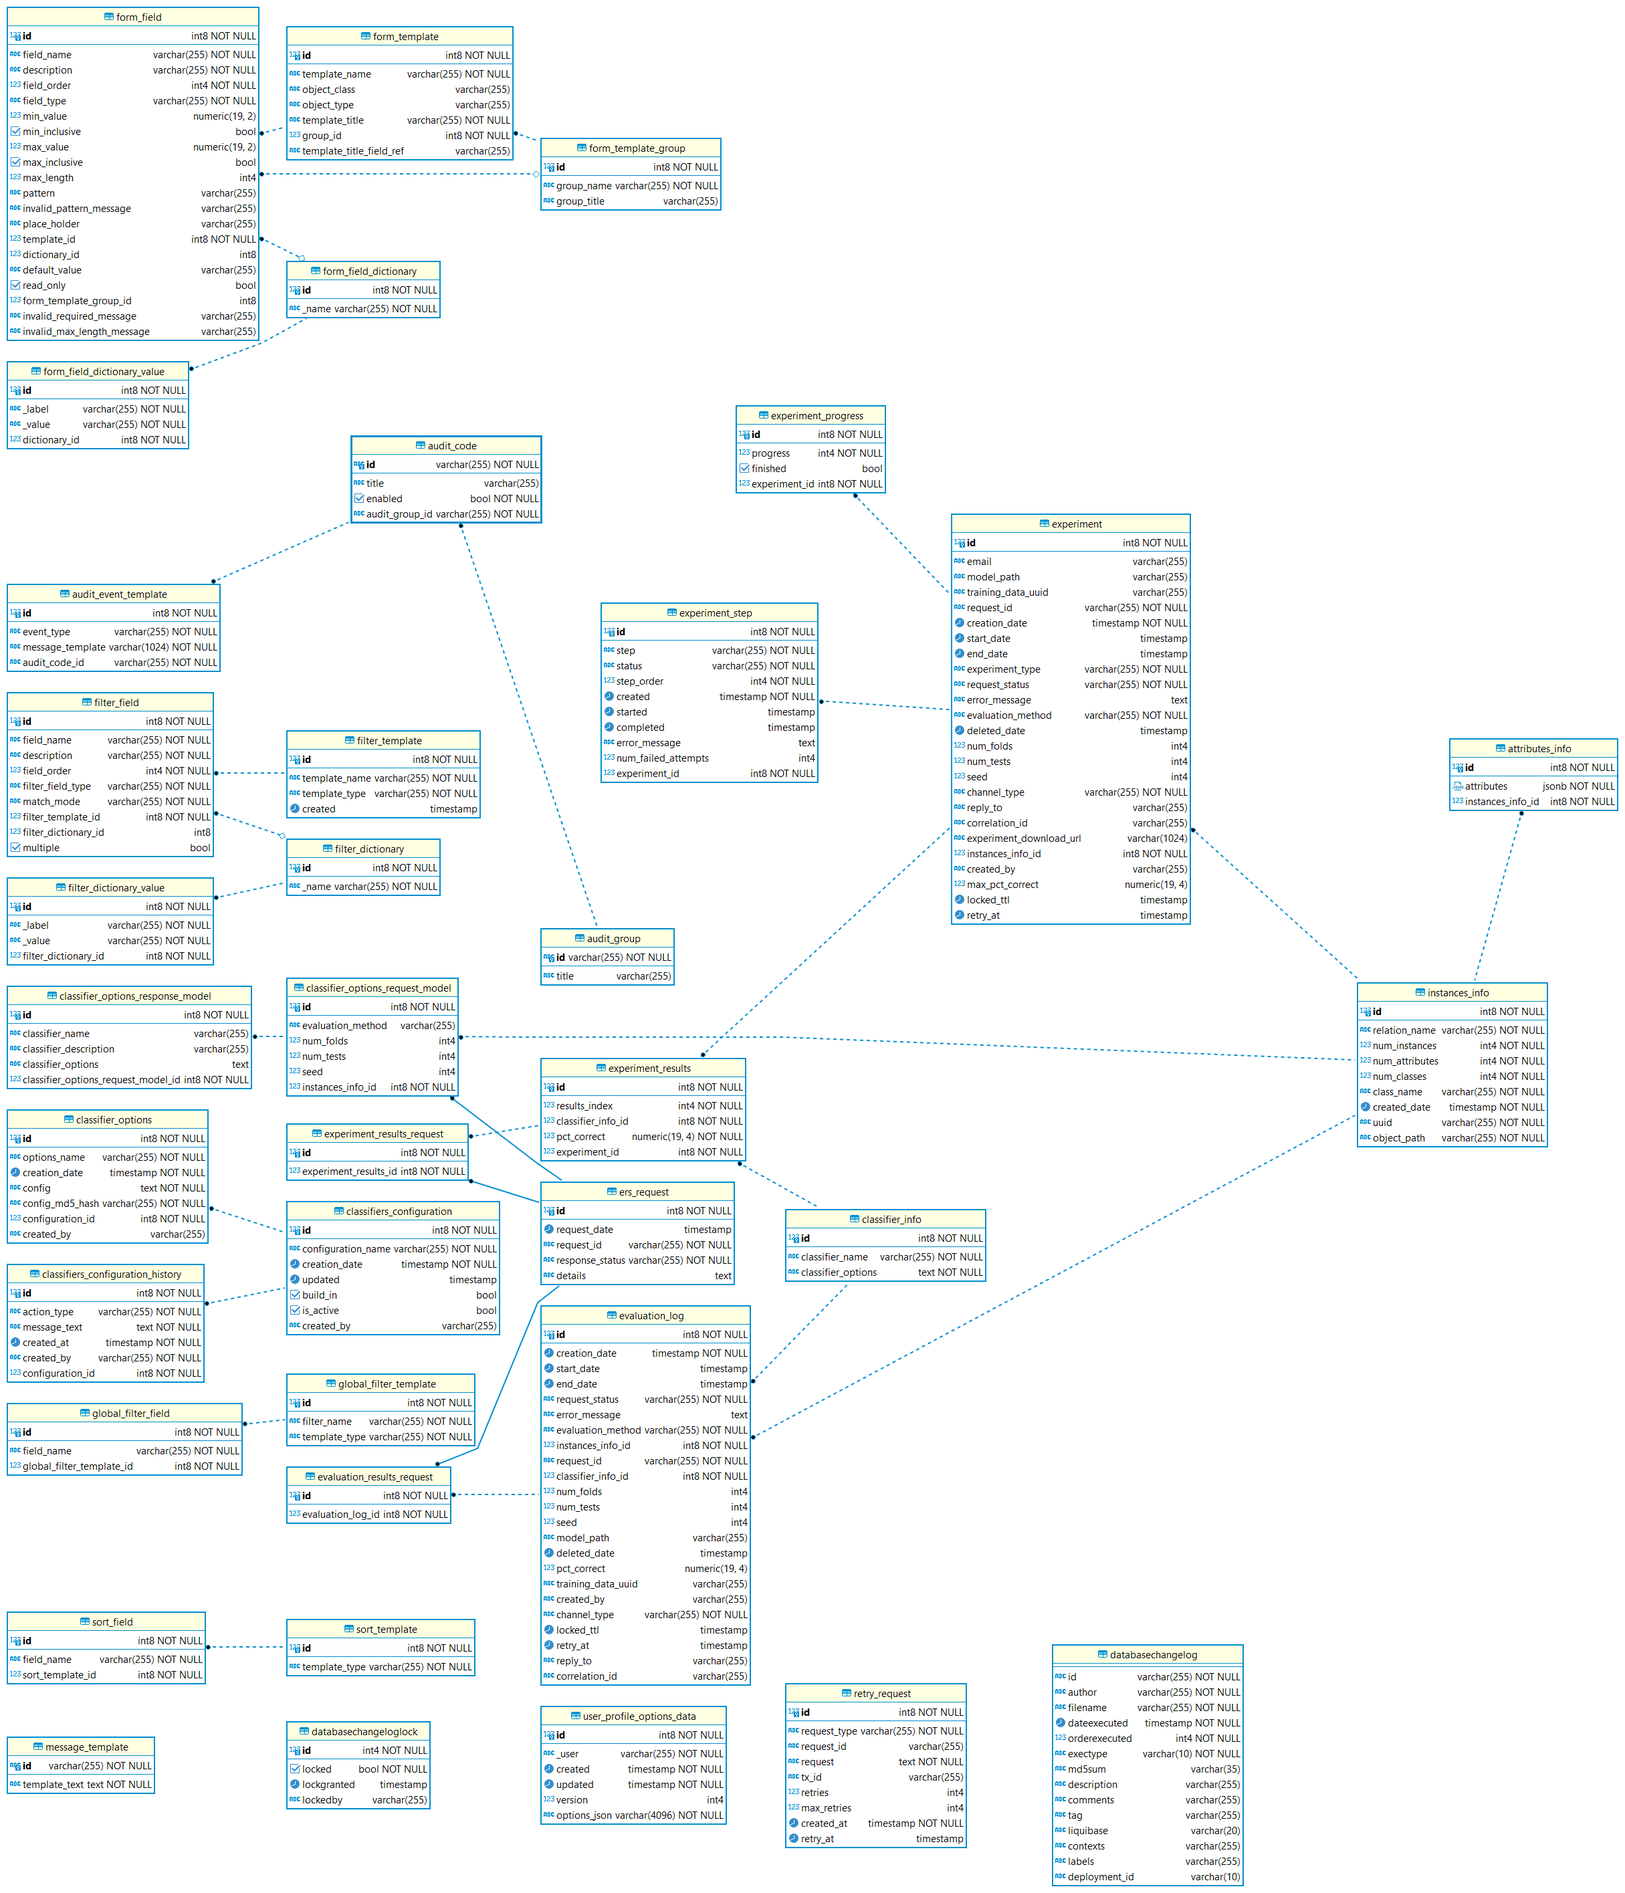
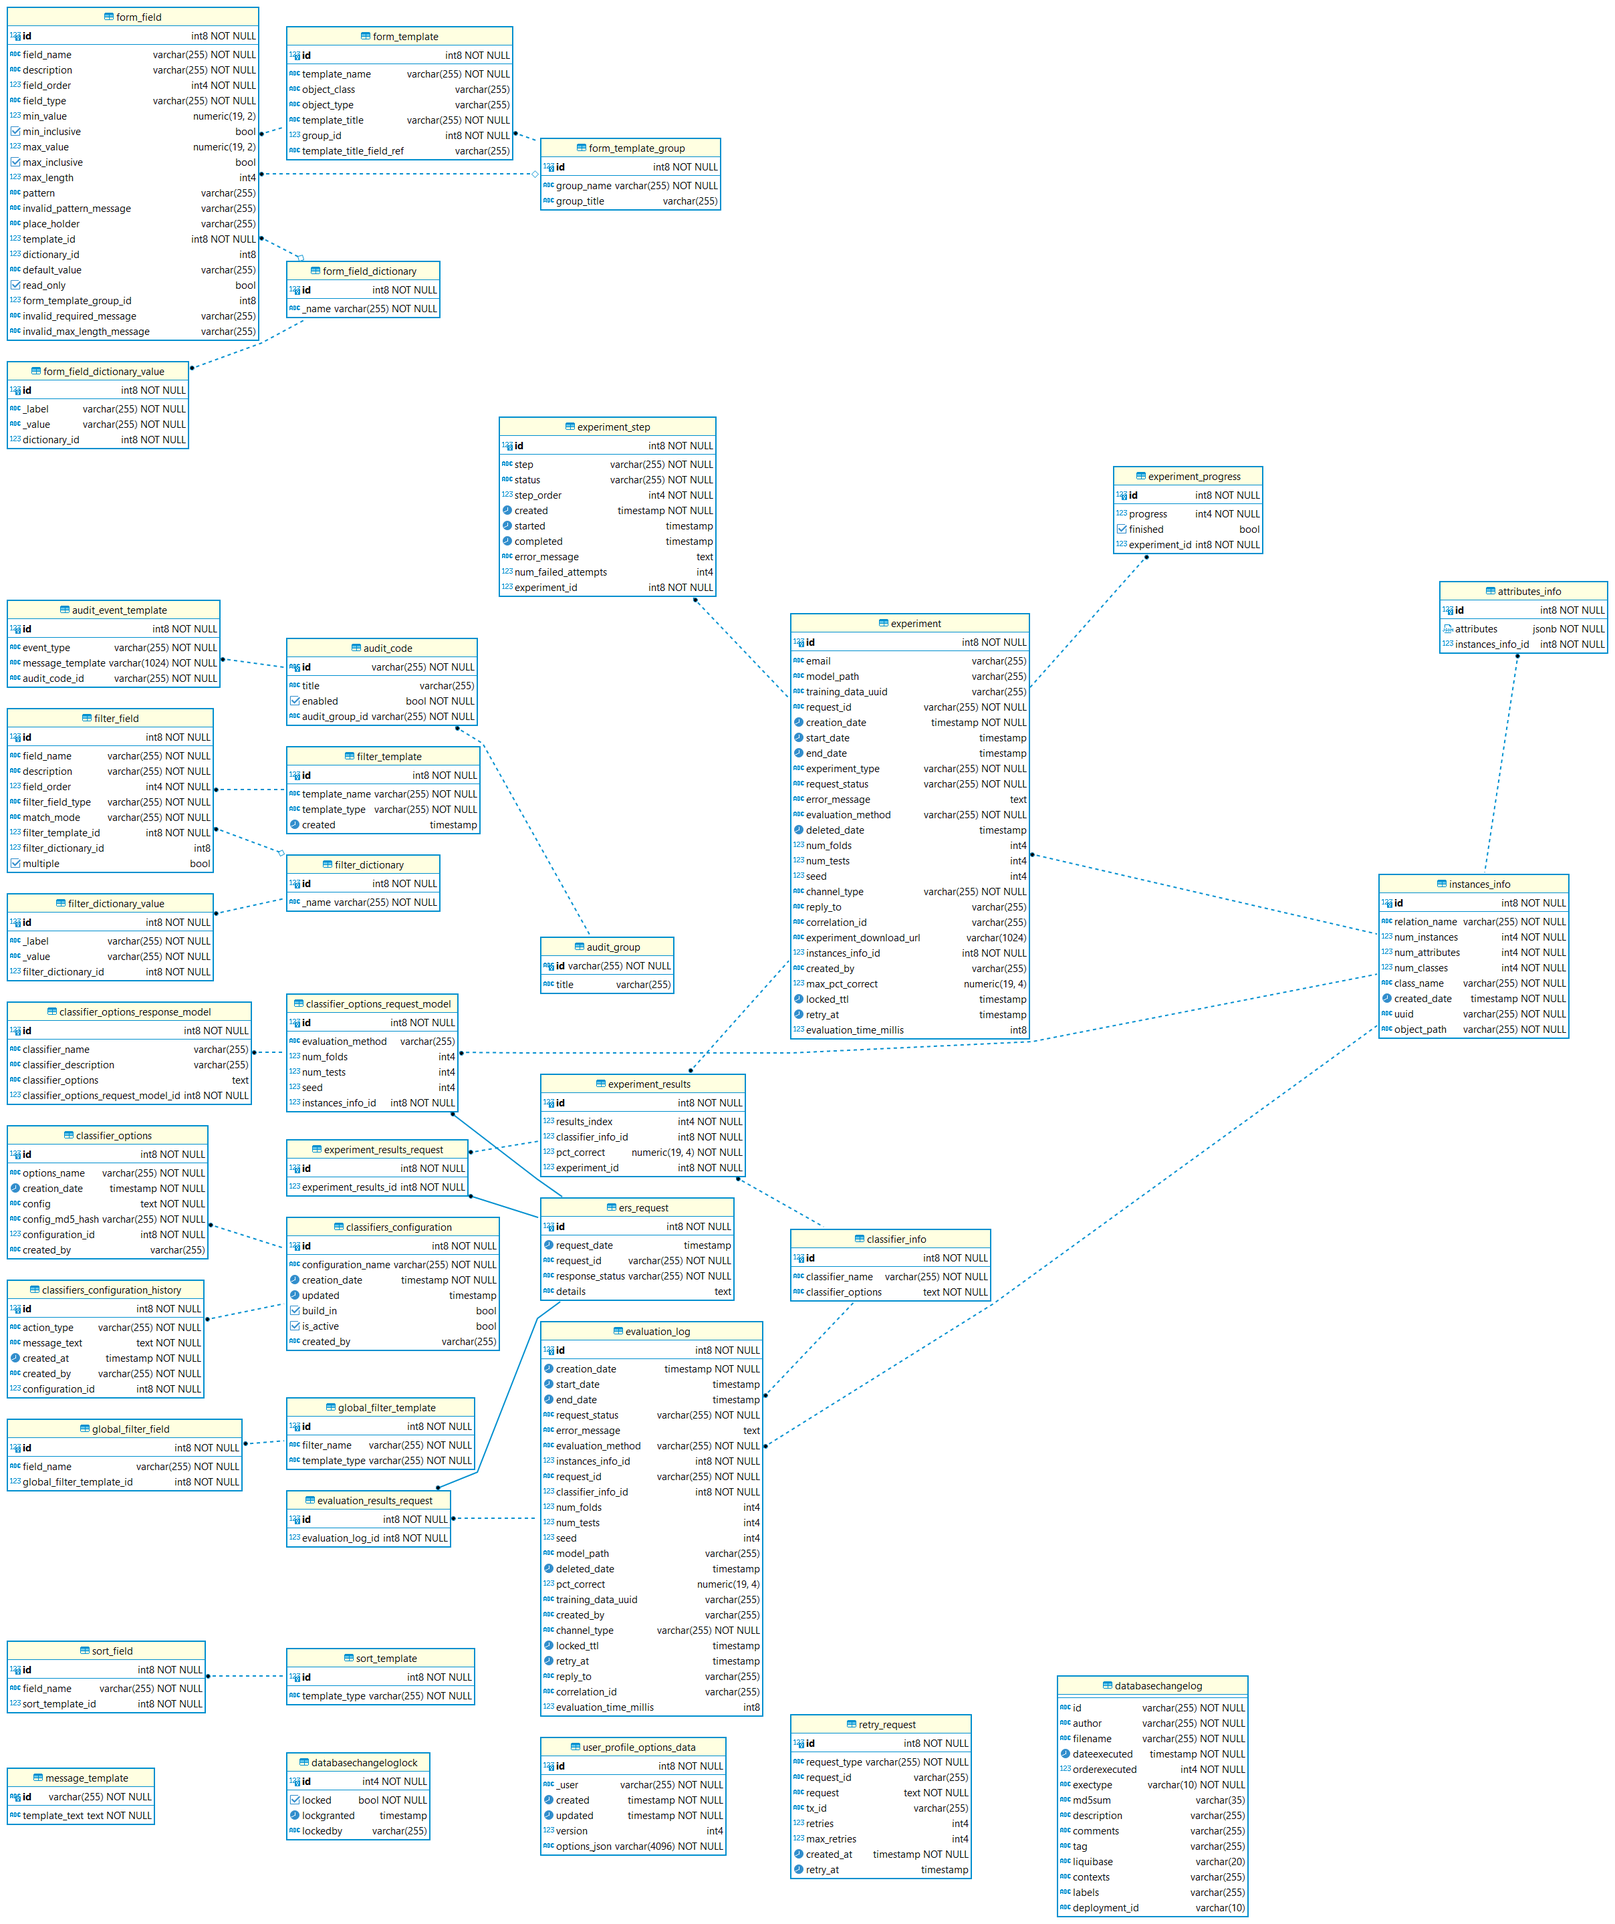
ECS-62 added evaluationTimeMillis field calculation

diff --git a/eca-web/src/main/resources/src/app/classifiers/components/classifier-list.component.ts b/eca-web/src/main/resources/src/app/classifiers/components/classifier-list.component.ts
@@ -394,8 +394,8 @@ export class ClassifierListComponent extends BaseListComponent<EvaluationLogDto>
       { name: EvaluationLogFields.MODEL_PATH, label: "Модель классификатора", sortBy: EvaluationLogFilterFields.MODEL_PATH },
       { name: EvaluationLogFields.EVALUATION_TOTAL_TIME, label: "Время построения модели" },
       { name: EvaluationLogFields.CREATION_DATE, label: "Дата создания заявки", sortBy: EvaluationLogFilterFields.CREATION_DATE },
-      { name: EvaluationLogFields.START_DATE, label: "Дата начала построения модели", sortBy: EvaluationLogFilterFields.START_DATE },
-      { name: EvaluationLogFields.END_DATE, label: "Дата окончания построения модели", sortBy: EvaluationLogFilterFields.END_DATE },
+      { name: EvaluationLogFields.START_DATE, label: "Дата начала обработки заявки", sortBy: EvaluationLogFilterFields.START_DATE },
+      { name: EvaluationLogFields.END_DATE, label: "Дата окончания обработки заявки", sortBy: EvaluationLogFilterFields.END_DATE },
       { name: EvaluationLogFields.DELETED_DATE, label: "Дата удаления модели", sortBy: EvaluationLogFilterFields.DELETED_DATE }
     ];
   }

diff --git a/eca-web/src/main/resources/src/app/experiments/components/experiment-list.component.ts b/eca-web/src/main/resources/src/app/experiments/components/experiment-list.component.ts
@@ -289,8 +289,8 @@ export class ExperimentListComponent extends BaseListComponent<ExperimentDto> im
       { name: ExperimentFields.MODEL_PATH, label: "Модель эксперимента", sortBy: ExperimentFilterFields.MODEL_PATH },
       { name: ExperimentFields.EVALUATION_TOTAL_TIME, label: "Время построения эксперимента" },
       { name: ExperimentFields.CREATION_DATE, label: "Дата создания заявки", sortBy: ExperimentFilterFields.CREATION_DATE },
-      { name: ExperimentFields.START_DATE, label: "Дата начала эксперимента", sortBy: ExperimentFilterFields.START_DATE },
-      { name: ExperimentFields.END_DATE, label: "Дата окончания эксперимента", sortBy: ExperimentFilterFields.END_DATE },
+      { name: ExperimentFields.START_DATE, label: "Дата начала обработки заявки", sortBy: ExperimentFilterFields.START_DATE },
+      { name: ExperimentFields.END_DATE, label: "Дата окончания обработки заявки", sortBy: ExperimentFilterFields.END_DATE },
       { name: ExperimentFields.DELETED_DATE, label: "Дата удаления модели", sortBy: ExperimentFilterFields.DELETED_DATE }
     ];
   }

diff --git a/eca-web/src/main/resources/src/app/evaluation-log-details/components/evaluation-log-details.component.ts b/eca-web/src/main/resources/src/app/evaluation-log-details/components/evaluation-log-details.component.ts
@@ -189,8 +189,8 @@ export class EvaluationLogDetailsComponent implements OnInit, OnDestroy, FieldLi
       { name: EvaluationLogFields.PCT_CORRECT, label: "Точность классификатора, %:" },
       { name: EvaluationLogFields.EVALUATION_TOTAL_TIME, label: "Время построения модели:" },
       { name: EvaluationLogFields.CREATION_DATE, label: "Дата создания заявки:" },
-      { name: EvaluationLogFields.START_DATE, label: "Дата начала построения модели:" },
-      { name: EvaluationLogFields.END_DATE, label: "Дата окончания построения модели:" },
+      { name: EvaluationLogFields.START_DATE, label: "Дата начала обработки заявки:" },
+      { name: EvaluationLogFields.END_DATE, label: "Дата окончания обработки заявки:" },
       { name: EvaluationLogFields.MODEL_PATH, label: "Модель классификатора:" },
       { name: EvaluationLogFields.DELETED_DATE, label: "Дата удаления модели:" },
     ];

diff --git a/eca-web/src/main/resources/src/app/experiment-details/components/experiment-details.component.ts b/eca-web/src/main/resources/src/app/experiment-details/components/experiment-details.component.ts
@@ -253,8 +253,8 @@ export class ExperimentDetailsComponent implements OnInit, OnDestroy, FieldLink 
       { name: ExperimentFields.CLASS_NAME, label: "Атрибут класса:" },
       { name: ExperimentFields.EVALUATION_TOTAL_TIME, label: "Время построения эксперимента:" },
       { name: ExperimentFields.CREATION_DATE, label: "Дата создания заявки:" },
-      { name: ExperimentFields.START_DATE, label: "Дата начала эксперимента:" },
-      { name: ExperimentFields.END_DATE, label: "Дата окончания эксперимента:" },
+      { name: ExperimentFields.START_DATE, label: "Дата начала обработки заявки:" },
+      { name: ExperimentFields.END_DATE, label: "Дата окончания обработки заявки:" },
       { name: ExperimentFields.MODEL_PATH, label: "Модель эксперимента:" },
       { name: ExperimentFields.DELETED_DATE, label: "Дата удаления модели:" }
     ];

diff --git a/eca-server/src/main/java/com/ecaservice/server/mapping/AbstractEvaluationMapper.java b/eca-server/src/main/java/com/ecaservice/server/mapping/AbstractEvaluationMapper.java
@@ -7,7 +7,6 @@ import java.time.Instant;
 import java.time.LocalDateTime;
 import java.time.ZoneId;
 import java.time.format.DateTimeFormatter;
-import java.time.temporal.ChronoUnit;
 
 /**
  * Abstract evaluation mapper.
@@ -18,15 +17,14 @@ public abstract class AbstractEvaluationMapper {
 
     private static final String GMT_TIME_ZONE = "GMT";
 
-    private final DateTimeFormatter evaluationTimeFormatter = DateTimeFormatter.ofPattern("HH:mm:ss:SS");
+    private final DateTimeFormatter evaluationTimeFormatter = DateTimeFormatter.ofPattern("HH:mm:ss:SSS");
 
     @Named("calculateEvaluationTotalTime")
     protected String calculateEvaluationTotalTime(AbstractEvaluationEntity evaluationEntity) {
-        if (evaluationEntity.getStartDate() != null && evaluationEntity.getEndDate() != null) {
-            long totalTimeMillis =
-                    ChronoUnit.MILLIS.between(evaluationEntity.getStartDate(), evaluationEntity.getEndDate());
-            LocalDateTime totalTime =
-                    Instant.ofEpochMilli(totalTimeMillis).atZone(ZoneId.of(GMT_TIME_ZONE)).toLocalDateTime();
+        if (evaluationEntity.getEvaluationTimeMillis() != null) {
+            LocalDateTime totalTime = Instant.ofEpochMilli(evaluationEntity.getEvaluationTimeMillis())
+                    .atZone(ZoneId.of(GMT_TIME_ZONE))
+                    .toLocalDateTime();
             return evaluationTimeFormatter.format(totalTime);
         }
         return null;

diff --git a/eca-web-transport/src/main/java/com/ecaservice/web/dto/model/AbstractEvaluationDto.java b/eca-web-transport/src/main/java/com/ecaservice/web/dto/model/AbstractEvaluationDto.java
@@ -65,18 +65,18 @@ public abstract class AbstractEvaluationDto {
     private LocalDateTime creationDate;
 
     /**
-     * Evaluation start date
+     * Request start date
      */
-    @Schema(description = "Evaluation start date", type = "string", example = "2021-07-01 14:00:00",
+    @Schema(description = "Request start date", type = "string", example = "2021-07-01 14:00:00",
             maxLength = LOCAL_DATE_TIME_MAX_LENGTH)
     @JsonFormat(pattern = DATE_TIME_PATTERN)
     @JsonSerialize(using = LocalDateTimeSerializer.class)
     private LocalDateTime startDate;
 
     /**
-     * Evaluation end date
+     * Request end date
      */
-    @Schema(description = "Evaluation end date", type = "string", example = "2021-07-01 14:00:00",
+    @Schema(description = "Request end date", type = "string", example = "2021-07-01 14:00:00",
             maxLength = LOCAL_DATE_TIME_MAX_LENGTH)
     @JsonFormat(pattern = DATE_TIME_PATTERN)
     @JsonSerialize(using = LocalDateTimeSerializer.class)
@@ -125,7 +125,7 @@ public abstract class AbstractEvaluationDto {
     /**
      * Model evaluation total time in format HH:mm:ss:SS
      */
-    @Schema(description = "Model evaluation total time in format HH:mm:ss:SS", example = "00:00:01:43",
+    @Schema(description = "Model evaluation total time in format HH:mm:ss:SSS", example = "00:00:01:432",
             maxLength = EVALUATION_TOTAL_TIME_MAX_LENGTH)
     private String evaluationTotalTime;
 

diff --git a/eca-server/src/test/java/com/ecaservice/server/mapping/ExperimentMapperTest.java b/eca-server/src/test/java/com/ecaservice/server/mapping/ExperimentMapperTest.java
@@ -39,6 +39,7 @@ import static org.mockito.Mockito.when;
 class ExperimentMapperTest {
 
     private static final String EXPERIMENT_PATH = "experiment.model";
+    private static final long EVALUATION_TIME_MILLIS = 1000L;
 
     @Autowired
     private CrossValidationConfig crossValidationConfig;
@@ -101,6 +102,7 @@ class ExperimentMapperTest {
         experiment.setNumTests(crossValidationConfig.getNumTests());
         experiment.setSeed(crossValidationConfig.getSeed());
         experiment.setMaxPctCorrect(BigDecimal.TEN);
+        experiment.setEvaluationTimeMillis(EVALUATION_TIME_MILLIS);
         ExperimentDto experimentDto = experimentMapper.map(experiment);
         assertThat(experimentDto).isNotNull();
         assertThat(experimentDto.getCreatedBy()).isEqualTo(experiment.getCreatedBy());
@@ -147,6 +149,7 @@ class ExperimentMapperTest {
         experiment.setDeletedDate(LocalDateTime.now());
         experiment.setModelPath(EXPERIMENT_PATH);
         experiment.setMaxPctCorrect(BigDecimal.TEN);
+        experiment.setEvaluationTimeMillis(EVALUATION_TIME_MILLIS);
         ExperimentBean experimentBean = experimentMapper.mapToBean(experiment);
         assertThat(experimentBean).isNotNull();
         assertThat(experimentBean.getCreatedBy()).isEqualTo(experiment.getCreatedBy());

diff --git a/eca-server/src/main/java/com/ecaservice/server/service/experiment/step/ExperimentModelProcessorStepHandler.java b/eca-server/src/main/java/com/ecaservice/server/service/experiment/step/ExperimentModelProcessorStepHandler.java
@@ -91,6 +91,9 @@ public class ExperimentModelProcessorStepHandler extends AbstractExperimentStepH
             processExperiment(data, experimentContext);
             saveModelToLocalStorage(experimentStepEntity, experimentContext.getExperimentHistory());
             saveMaxPctCorrectValue(experimentContext);
+            Experiment experiment = experimentContext.getExperiment();
+            experiment.setEvaluationTimeMillis(experimentContext.getStopWatch().lastTaskInfo().getTimeMillis());
+            experimentRepository.save(experiment);
             experimentProgressService.finish(experimentStepEntity.getExperiment());
             experimentStepService.complete(experimentStepEntity);
         } catch (ObjectStorageException ex) {
@@ -152,7 +155,6 @@ public class ExperimentModelProcessorStepHandler extends AbstractExperimentStepH
                         String.format("Can't find best evaluation results for experiment [%s]",
                                 experiment.getRequestId())));
         experiment.setMaxPctCorrect(BigDecimal.valueOf(bestEvaluationResults.getEvaluation().pctCorrect()));
-        experimentRepository.save(experiment);
     }
 
     private void saveModelToLocalStorage(ExperimentStepEntity experimentStepEntity,

diff --git a/eca-server/src/test/java/com/ecaservice/server/TestHelperUtils.java b/eca-server/src/test/java/com/ecaservice/server/TestHelperUtils.java
@@ -168,6 +168,7 @@ public class TestHelperUtils {
     private static final String INSTANCES_OBJECT_PATH = "instances.json";
     private static final String EVALUATION_RESULTS_RESPONSE_JSON = "evaluation-results-response.json";
     private static final String CONFUSION_MATRIX_JSON = "confusion-matrix.json";
+    private static final long EVALUATION_TIME_MILLIS = 1000L;
 
     /**
      * Creates page request dto.
@@ -659,6 +660,7 @@ public class TestHelperUtils {
         evaluationLog.setModelPath(CLASSIFIER_MODEL);
         evaluationLog.setPctCorrect(BigDecimal.TEN);
         evaluationLog.setChannel(Channel.QUEUE);
+        evaluationLog.setEvaluationTimeMillis(EVALUATION_TIME_MILLIS);
         evaluationLog.setTrainingDataUuid(UUID.randomUUID().toString());
         return evaluationLog;
     }

diff --git a/eca-server/src/main/java/com/ecaservice/server/service/evaluation/EvaluationRequestService.java b/eca-server/src/main/java/com/ecaservice/server/service/evaluation/EvaluationRequestService.java
@@ -113,6 +113,8 @@ public class EvaluationRequestService {
             //Save updated classifier options
             updateClassifierOptions(classifier, evaluationLog);
             var evaluationResultsDataModel = internalProcessRequest(classifier, data, evaluationLog);
+            evaluationLog.setEvaluationTimeMillis(
+                    evaluationResultsDataModel.getEvaluationResults().getEvaluation().getTotalTimeMillis());
             evaluationLogService.finishEvaluation(evaluationLog, RequestStatus.FINISHED);
             return evaluationResultsDataModel;
         } catch (ObjectStorageException ex) {

diff --git a/eca-server/src/main/java/com/ecaservice/server/model/entity/AbstractEvaluationEntity.java b/eca-server/src/main/java/com/ecaservice/server/model/entity/AbstractEvaluationEntity.java
@@ -131,7 +131,6 @@ public abstract class AbstractEvaluationEntity {
      */
     private Integer seed;
 
-
     /**
      * Reply to queue
      */
@@ -143,6 +142,12 @@ public abstract class AbstractEvaluationEntity {
      */
     @Column(name = "correlation_id")
     private String correlationId;
+
+    /**
+     * Model evaluation time millis
+     */
+    @Column(name = "evaluation_time_millis")
+    private Long evaluationTimeMillis;
 
     /**
      * Error message

diff --git a/eca-server/src/main/java/com/ecaservice/server/report/model/EvaluationBean.java b/eca-server/src/main/java/com/ecaservice/server/report/model/EvaluationBean.java
@@ -31,12 +31,12 @@ public abstract class EvaluationBean {
     private String creationDate;
 
     /**
-     * Evaluation start date
+     * Request start date
      */
     private String startDate;
 
     /**
-     * Evaluation end date
+     * Request end date
      */
     private String endDate;
 
